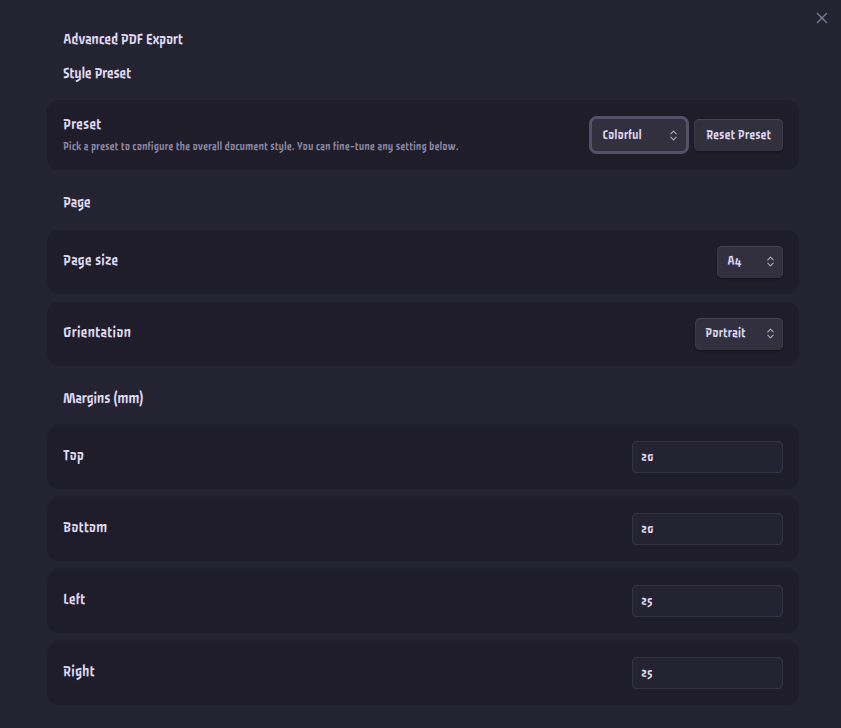
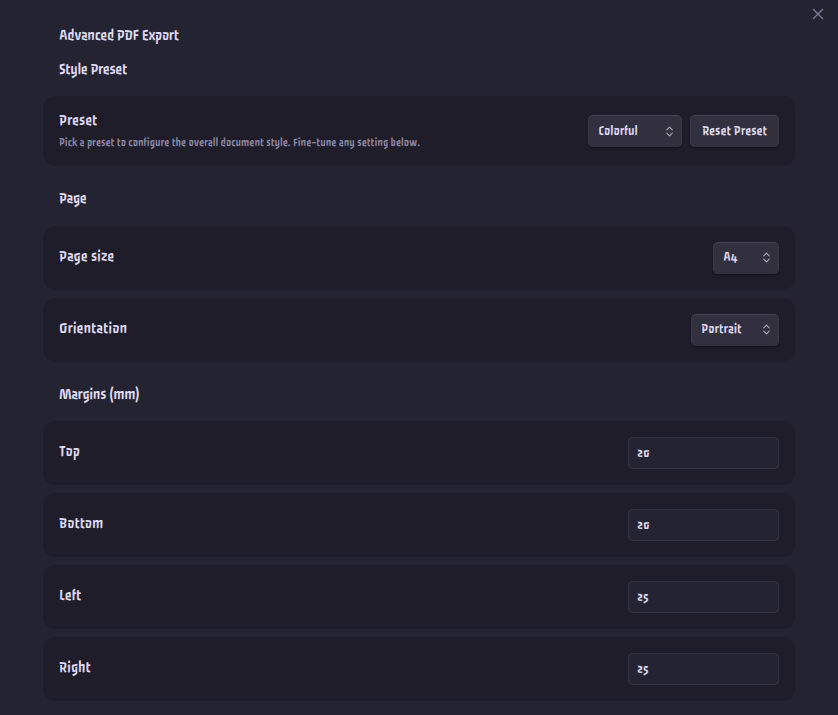
updated screenshots

diff --git a/README.md b/README.md
@@ -39,12 +39,9 @@ Type `///` on its own line, or click the **Insert Page Break** button in the too
 ![Modern preset](screenshots/style3.png)
 
 ### Settings Panel
-![Page & Preset settings](screenshots/settings1.png)
+<img src="screenshots/settings1.png" width="49%" /><img src="screenshots/settings2.png" width="49%" />
 
-![Typography & Colors settings](screenshots/settings2.png)
-
-![Heading Style, Tables & Header/Footer settings](screenshots/settings3.png)
-
+<img src="screenshots/settings3.png" width="49%" /><img src="screenshots/settings4.png" width="49%" />
 
 ## Installation
 